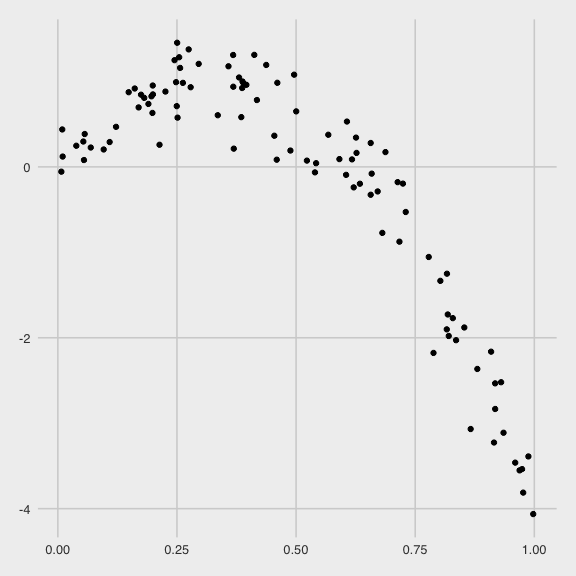
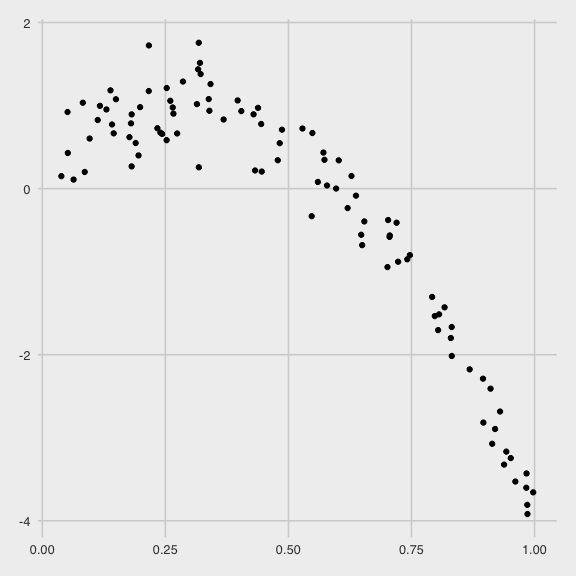
cross validation of a randomly distributed dataset

diff --git a/cross_validation.md b/cross_validation.md
@@ -6,6 +6,8 @@ Alexey Abramov
   - [Setup](#setup)
   - [Simulated dataset](#simulated-dataset)
       - [Cross- validation](#cross--validation)
+  - [Cross-validation with modelr
+    package](#cross-validation-with-modelr-package)
   - [Loading the data.](#loading-the-data.)
 
 # Setup
@@ -14,14 +16,14 @@ Alexey Abramov
 library(tidyverse)
 ```
 
-    ## ── Attaching packages ─────────────────────────────────────── tidyverse 1.3.0 ──
+    ## ── Attaching packages ───────────────────────────────────────────────────────── tidyverse 1.3.0 ──
 
     ## ✓ ggplot2 3.3.2     ✓ purrr   0.3.4
     ## ✓ tibble  3.0.3     ✓ dplyr   1.0.2
     ## ✓ tidyr   1.1.2     ✓ stringr 1.4.0
     ## ✓ readr   1.3.1     ✓ forcats 0.5.0
 
-    ## ── Conflicts ────────────────────────────────────────── tidyverse_conflicts() ──
+    ## ── Conflicts ──────────────────────────────────────────────────────────── tidyverse_conflicts() ──
     ## x dplyr::filter() masks stats::filter()
     ## x dplyr::lag()    masks stats::lag()
 
@@ -155,19 +157,121 @@ Now considering prediction accurary.
 rmse(linear_mod, test_df)
 ```
 
-    ## [1] 0.9887422
+    ## [1] 0.6551062
 
 ``` r
 rmse(smooth_mod, test_df)
 ```
 
-    ## [1] 0.3668859
+    ## [1] 0.3238845
 
 ``` r
 rmse(wiggly_mod, test_df)
 ```
 
-    ## [1] 0.4429184
+    ## [1] 0.3413744
+
+# Cross-validation with modelr package
+
+``` r
+cv_df = 
+  crossv_mc(nonlin_df, 100)
+```
+
+What is happening here… And then we bring it out and show it as a tibble
+so we can see the lists and dataframes.
+
+``` r
+cv_df %>% pull(train) %>% .[[1]] %>% as_tibble()
+```
+
+    ## # A tibble: 79 x 3
+    ##       id      x       y
+    ##    <int>  <dbl>   <dbl>
+    ##  1     2 0.560   0.0800
+    ##  2     3 0.234   0.727 
+    ##  3     4 0.0512  0.922 
+    ##  4     5 0.429   0.894 
+    ##  5     6 0.216   1.72  
+    ##  6     7 0.911  -2.41  
+    ##  7     8 0.181   0.894 
+    ##  8    10 0.528   0.723 
+    ##  9    12 0.628   0.152 
+    ## 10    13 0.252   0.583 
+    ## # … with 69 more rows
+
+This step is only necessary for the gam function which requires a
+tibble, and won’t work for list columns.
+
+``` r
+cv_df =
+  cv_df %>% 
+  mutate(
+    train = map(train, as_tibble),
+    test = map(test, as_tibble)
+    )
+```
+
+Let’s try to fit models and get RMSEs for them. map2 is used because we
+have two inputs into our iteration argument.
+
+map2\_dbl is a way to see the actual number.
+
+``` r
+cv_df = 
+  cv_df %>% 
+  mutate(
+    linear_mod = map(.x = train, ~lm(y ~ x, data = .x)),
+    smooth_mod = map(.x = train, ~gam(y ~ s(x), data = .x)),
+    wiggly_mod = map(.x = train, ~gam(y ~ s(x, k = 30), sp = 10e-6, data = .x))
+    ) %>% 
+  mutate(
+    rmse_linear = map2_dbl(.x = linear_mod, .y = test, ~rmse(model = .x, data = .y)),
+    rmse_smooth = map2_dbl(.x = smooth_mod, .y = test, ~rmse(model = .x, data = .y)),
+    rmse_wiggly = map2_dbl(.x = wiggly_mod, .y = test, ~rmse(model = .x, data = .y))
+  )
+```
+
+What do these results say about the model choices?
+
+``` r
+cv_df %>% 
+  select(starts_with("rmse")) %>% 
+  pivot_longer(
+    everything(),
+    names_to = "model",
+    values_to = "rmse",
+    names_prefix = "rmse_"
+  ) %>% 
+  ggplot(aes(x = model, y = rmse)) +
+  geom_violin()
+```
+
+<img src="cross_validation_files/figure-gfm/unnamed-chunk-14-1.png" width="90%" />
+
+The smooth model appears to be doing better.
+
+``` r
+cv_df %>% 
+  select(starts_with("rmse")) %>% 
+  pivot_longer(
+    everything(),
+    names_to = "model",
+    values_to = "rmse",
+    names_prefix = "rmse_"
+  ) %>% 
+  group_by(model) %>% 
+  summarize(avg_rmse = mean(rmse))
+```
+
+    ## `summarise()` ungrouping output (override with `.groups` argument)
+
+    ## # A tibble: 3 x 2
+    ##   model  avg_rmse
+    ##   <chr>     <dbl>
+    ## 1 linear    0.751
+    ## 2 smooth    0.312
+    ## 3 wiggly    0.363
 
 # Loading the data.
 
